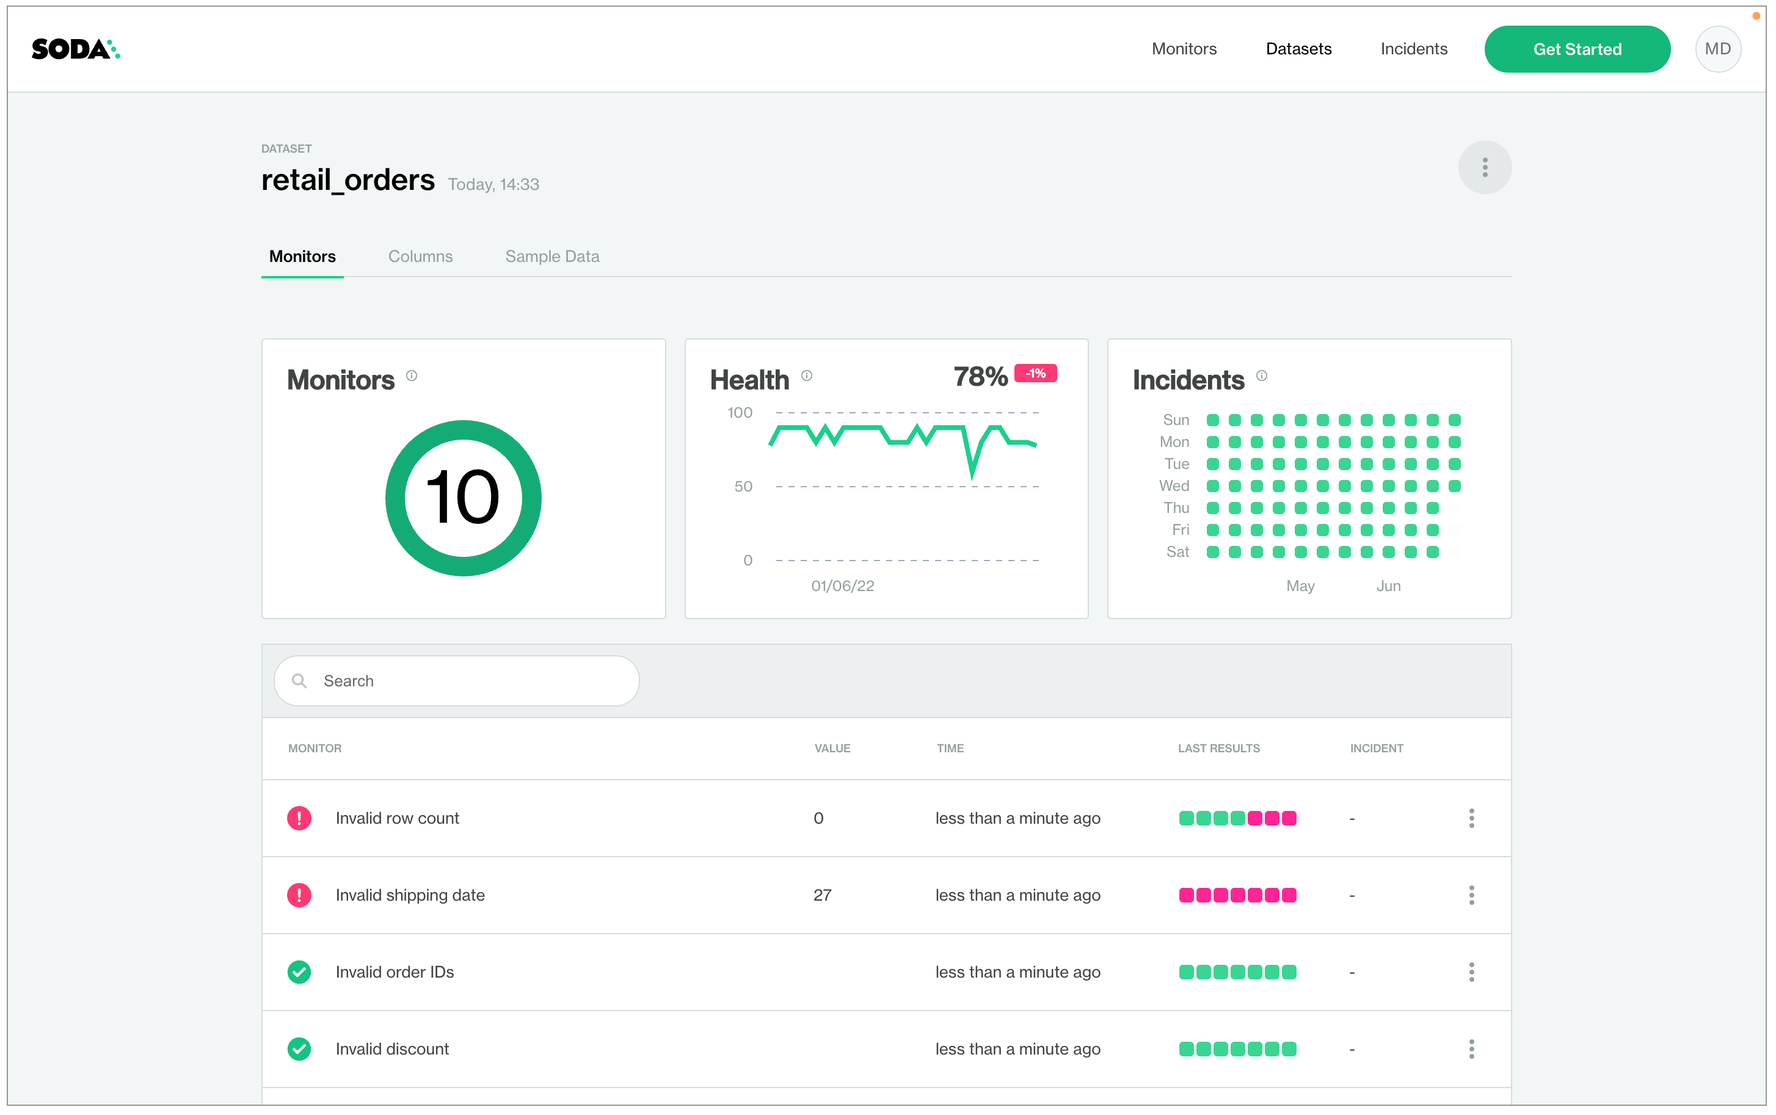
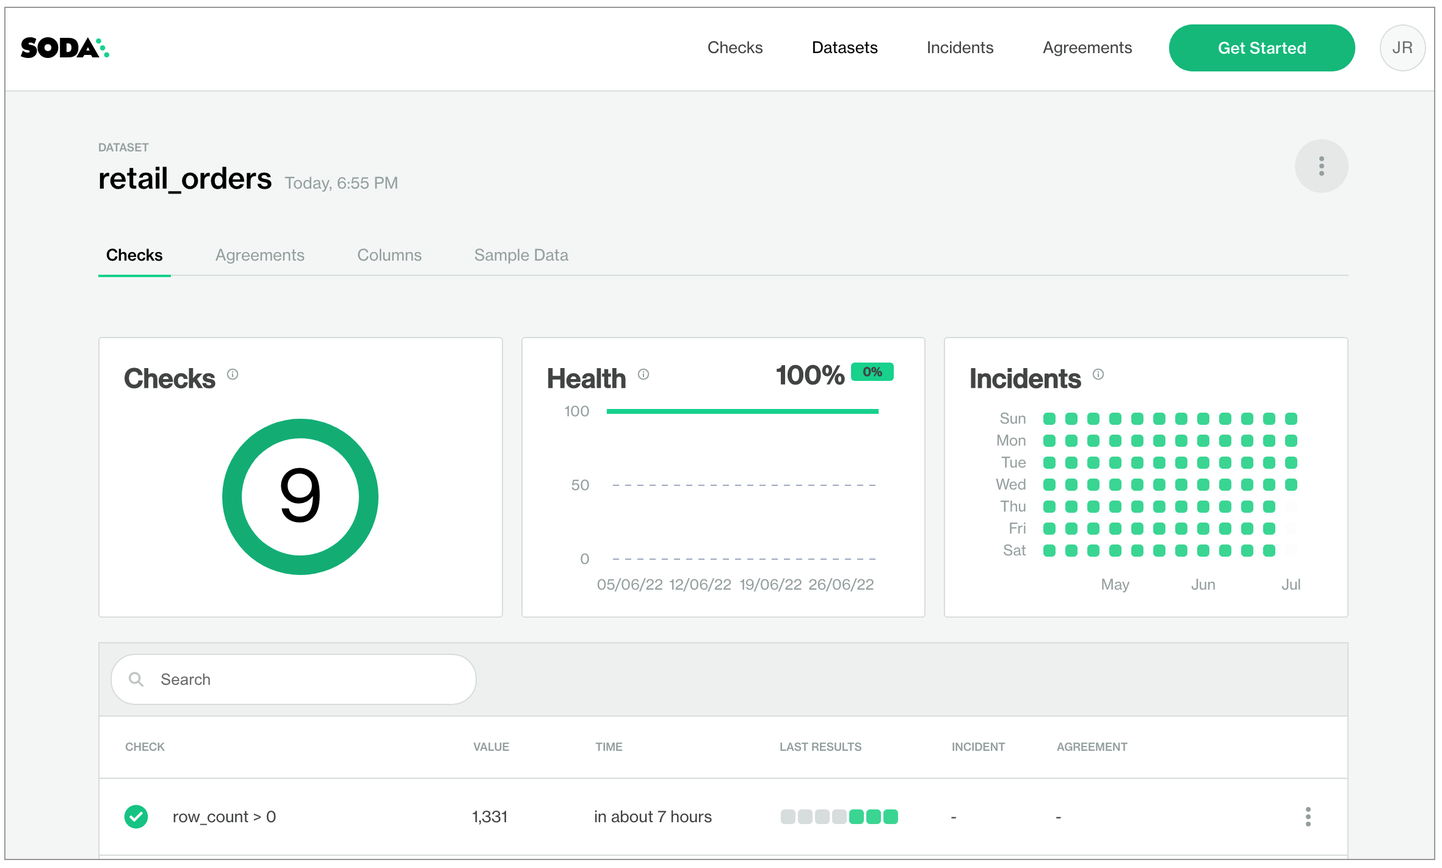
Last changes to shift focus to checks and preview features.

diff --git a/index.html b/index.html
@@ -32,9 +32,9 @@ redirect_from:
                 <div>
                     <img src="/assets/images/icons/icon-new@2x.png" width="54" height="40">
                     <h2>What's new?</h2>
-                    <a href="/soda-core/overview-main.html">Soda Core + SodaCL are GA!</a>
-                    <a href="/soda-core/configuration.html#connect-to-apache-spark-dataframes">Soda Core for Spark</a>
-                    <a href="/soda-core/how-core-works.html">How Soda Core works</a>
+                    <a href="/soda-agent/deploy.html">Deploy a Soda Agent (Preview)</a>
+                    <a href="/soda-cloud/agreements.html">Create an agreement (Preview)</a>
+                    <a href="/soda-cl/profile.html">Profile datasets (Preview</a>
                 </div>
                 <div>
                     <img src="/assets/images/icons/icon-dev-tools@2x.png" width="54" height="40">
@@ -48,13 +48,14 @@ redirect_from:
                     <h2>SodaCL</h2>
                     <a href="/soda/quick-start-sodacl.html">Quick start for SodaCL</a>
                     <a href="/soda-cl/metrics-and-checks.html">SodaCL metrics and checks</a>
+                    <a href="/soda-cl/automated-monitoring.html">Automated monitoring (Preview)</a>
                 </div>
                 <div>
                     <img src="/assets/images/icons/icon-cloud@2x.png" width="54" height="40">
                     <h2>Soda Cloud</h2>
                     <a href="https://cloud.soda.io/signup" target="_blank">Sign up for Soda Cloud</a>
                     <a href="/soda-cloud/incidents.html">Soda Incidents</a>
-                    <a href="/soda-cloud/organize-datasets.html">Organize datasets</a>
+                    <a href="/soda-cloud/add-datasource.html">Create a datasource (Preview)</a>
                 </div>
                  <div>
                     <img src="/assets/images/icons/icon-collaboration@2x.png" width="54" height="40">

diff --git a/soda-cloud/roles-and-rights.md b/soda-cloud/roles-and-rights.md
@@ -12,8 +12,8 @@ To manage the actions of members that belong to a single organization, Soda Clou
 [Roles and rights in your account](#roles-and-rights-in-your-account)<br />
 [Change organization roles and settings](#change-organization-roles-and-settings)<br />
 [Access an audit trail](#access-an-audit-trail)<br />
-[Access to datasets and monitors](#access-to-datasets-and-monitors)<br />
-[Default roles for datasets and monitors](#default-roles-for-datasets-and-monitors)<br />
+[Access to datasets and checks](#access-to-datasets-and-checks)<br />
+[Default roles for datasets and checks](#default-roles-for-datasets-and-checks)<br />
 [Change the default access to datasets](#change-the-default-access-to-datasets)<br />
 [Change access to a dataset](#change-access-to-a-dataset)<br />
 [Review member licenses](#review-member-licenses)<br />
@@ -71,26 +71,25 @@ To meet your organization's regulatory and policy mandates, you can download a C
 Alternatively, you can use the [Audit Trail endpoint]({% link api-docs/reporting-api.md %}#/operations/audit_trail_v0_audit_trail_get) in Soda Cloud's Reporting API to access audit trail data. 
 
 
-## Access to datasets and monitors
+## Access to datasets and checks
 
-The roles that define who can make changes to [datasets]({% link soda/glossary.md %}#dataset) and [monitors]({% link soda/glossary.md %}#monitor) are **Manager**, **Editor**, and **Viewer**. Where the roles and rights described above apply to your organization's Soda Account, the roles and rights described in the table below apply to individual resources in your account, namely the datasets and monitors. 
+The roles that define who can make changes to [datasets]({% link soda/glossary.md %}#dataset) and [checks]({% link soda/glossary.md %}#check) are **Manager**, **Editor**, and **Viewer**. Where the roles and rights described above apply to your organization's Soda Account, the roles and rights described in the table below apply to individual resources in your account, namely the datasets and checks. 
 
-The following table outlines the rights of each role associated with individual datasets. Note that because of its universal access to all things in your Soda Cloud account, an **Admin** member as described above has all the rights of a **Manager** relative to datasets and monitors.
+The following table outlines the rights of each role associated with individual datasets. Note that because of its universal access to all things in your Soda Cloud account, an **Admin** member as described above has all the rights of a **Manager** relative to datasets and checks.
 
 | Rights                                                                     | Manager <br /> and Admin | Editor | Viewer |
 |----------------------------------------------------------------------------|:------------------------:|:------:|:------:|
-| View Monitor Results of monitors associated with a dataset                 |             ✓            |    ✓   |    ✓   |
-| Create and track Incidents associated with one or more monitor results     |             ✓            |    ✓   |    ✓   |
-| Create monitors associated with the dataset                                |             ✓            |    ✓   |        |
-| Edit monitors associated with the dataset                                  |             ✓            |    ✓   |        |
+| View Check Results of checks associated with a dataset                     |             ✓            |    ✓   |    ✓   |
+| Create and track Incidents associated with one or more check results       |             ✓            |    ✓   |    ✓   |
+| Create checks associated with an agreement                                 |             ✓            |    ✓   |        |
+| Edit checks associated with a dataset                                      |             ✓            |    ✓   |        |
 | Add and edit dataset Attributes, such as Description or Tags               |             ✓            |    ✓   |        |
-| Edit dataset settings such as Enable Column Metrics or Sample Data         |             ✓            |    ✓   |        |
 | Add Tags to a dataset                                                      |             ✓            |    ✓   |        |
-| Control member access to a dataset and its monitors (add or remove access) |             ✓            |        |        |
-| Change the roles of members with access to a dataset and its monitors      |             ✓            |        |        |
+| Control member access to a dataset and its checks (add or remove access)   |             ✓            |        |        |
+| Change the roles of members with access to a dataset and its check         |             ✓            |        |        |
 
 
-## Default roles for datasets and monitors
+## Default roles for datasets and checks
 
 When a new member accepts an invitation to join an existing organization, Soda Cloud applies the following defaults to the new member:
 - the role of **User** in the organization
@@ -122,7 +121,7 @@ By default, when any member adds a new dataset to the Soda Cloud account via Sod
 
 As an Admin you have the option of adjusting three default access settings:
 
-* By default, when a dataset's Admin or Manager grants another member or the Everyone group access to a dataset, Soda Cloud automatically assigns the new member or group the [default role of Editor for the dataset](#default-roles-for-datasets-and-monitors).  You can adjust this setting to a different default role.
+* By default, when a dataset's Admin or Manager grants another member or the Everyone group access to a dataset, Soda Cloud automatically assigns the new member or group the [default role of Editor for the dataset](#default-roles-for-datasets-and-checks).  You can adjust this setting to a different default role.
 * By default, when any member adds a new dataset to the Soda Cloud account via Soda Core, Soda Cloud *does not* assign the **Everyone** group to the dataset. You can adjust this setting to automatically assign the **Everyone** group to each newly added dataset.
 * By default, Soda Cloud *does not* allow dataset owners to manage the responsibilites on the datasets they own. You can adjust this setting to automatically assign the role of Manager to all dataset owners, rather than Editor.
 
@@ -146,8 +145,8 @@ Note that by default, Soda Cloud automatically adds all new members to the organ
     </ol>
     <br />
     In other words, you cannot globally change the role for the Everyone group across resources. You can only change the role of Everyone by:<br />
-    a) changing it individually on an individual dataset or monitor.<br />
-    b) changing its default role in the Organization Settings which <i>only</i> applies when the Everyone group is added to a dataset or monitor on upload or creation.
+    a) changing it individually on an individual dataset or check.<br />
+    b) changing its default role in the Organization Settings which <i>only</i> applies when the Everyone group is added to a dataset or check on upload or creation.
 </details>
  
 
@@ -164,13 +163,13 @@ As an Admin or a Manager of a dataset, you can access the **Responsibilities** t
 
 ## Review member licenses
 
-Each Soda Cloud Plan (Soda Teams or Soda Enterprise) includes a specific number of **Author** licenses for members of the Soda Cloud account. A member's license status controls whether they can make changes to any datasets and monitors in the Soda Cloud account.
-* **Authors** essentially have read-write access in Soda Cloud and maintain the role of Admin, Manager, or Editor relative to monitors and datasets. See [Roles and rights](#roles-and-rights) above.
-* **Viewers** essentially have read-only acecss in Soda Cloud and maintain the role of Viewer relative to monitors and datasets. See [Roles and rights](#roles-and-rights) above.
+Each Soda Cloud Plan (Soda Teams or Soda Enterprise) includes a specific number of **Author** licenses for members of the Soda Cloud account. A member's license status controls whether they can make changes to any datasets and checks in the Soda Cloud account.
+* **Authors** essentially have read-write access in Soda Cloud and maintain the role of Admin, Manager, or Editor relative to checks and datasets. See [Roles and rights](#roles-and-rights) above.
+* **Viewers** essentially have read-only acecss in Soda Cloud and maintain the role of Viewer relative to checks and datasets. See [Roles and rights](#roles-and-rights) above.
 
 1. To review the licenses that your members have, as an Admin, login to your Soda Cloud account and navigate to **your avatar** > **Organization Settings**. Only Soda Cloud Admin members can view Organization Settings. 
 2. Access the **Members** tab to view a list of people who have access to your Soda Cloud account, the role they have in the organization (Admin or User), and their License status (Author or Viewer). 
-3. Click a member's **Author** or **Viewer** label in the License column to access a **Responsibilities** window that lists the member's access to resources (datasets and monitors), the role they hold for each resource, and their license status relative to the resource.
+3. Click a member's **Author** or **Viewer** label in the License column to access a **Responsibilities** window that lists the member's access to resources (datasets and checks), the role they hold for each resource, and their license status relative to the resource.
 
 ## Data source, dataset, and check owners
 
@@ -190,11 +189,11 @@ There are three ownership roles in Soda Cloud that identify the member that owns
 <br />
 <br />
 
-#### Change the Monitor Owner
+#### Change the Check Owner
 
-1. If you are the Admin of the organization, or have a Manager or Editor role for the monitor's dataset, login to your Soda Cloud account and navigate to the **Monitors** dashboard.
-2. Click the stacked dots to the right of the monitor for which you wish to adjust the ownership, then select **Edit Monitor**.
-3. In the **Attributes** tab, use the dropdown to select the name of another member to take ownership of the monitor, then **Save**.
+1. If you are the Admin of the organization, or have a Manager or Editor role for the check's dataset, login to your Soda Cloud account and navigate to the **Checks** dashboard.
+2. Click the stacked dots to the right of the check for which you wish to adjust the ownership, then select **Edit Check**.
+3. In the **Attributes** tab, use the dropdown to select the name of another member to take ownership of the check, then **Save**.
 
 
 ## Go further

diff --git a/soda/product-matrix.md b/soda/product-matrix.md
@@ -17,7 +17,11 @@ Use these matrices to review the features and functionality that Soda products h
 [Gain insight](#gain-insight)<br />
 [Go further](#go-further)
 
-![legend-matrix](/assets/images/legend-matrix.png){:height="120px" width="120px"}
+
+![almost-done](/assets/images/almost-done.png){:height="20px" width="20px"} Coming soon <br />
+![done](/assets/images/done.png){:height="20px" width="20px"}  Full implemented <br />
+![preview](/assets/images/preview.png){:height="60px" width="60px"} Released for limited-access preview 
+
 <br />
 <br />
 
@@ -27,7 +31,7 @@ Use these matrices to review the features and functionality that Soda products h
 |--------|:---------:|:---------:|
 | Install in your environment via `pip install`| ![done](/assets/images/done.png){:height="20px" width="20px"}  |  |
 | Connect to a data source via configurations in a YAML file| ![done](/assets/images/done.png){:height="20px" width="20px"}  |  |
-| Connect to a data source via a web app user interface| | ![almost-done](/assets/images/almost-done.png){:height="20px" width="20px"} |
+| Connect to a data source via a web app user interface| | ![preview](/assets/images/preview.png){:height="60px" width="60px"} |
 | Manage user access to your organization's Soda Cloud account. | | ![done](/assets/images/done.png){:height="20px" width="20px"} | 
 | Set up Single sign-on for Soda Cloud so that all users in your organization must use your IdP to access it | | ![done](/assets/images/done.png){:height="20px" width="20px"} | 
 
@@ -36,16 +40,16 @@ Use these matrices to review the features and functionality that Soda products h
 | Feature or functionality |  ![soda-core-logo](/assets/images/soda-core-logo.png){:height="110px" width="110px"} <br />**+** ![sodacl-logo](/assets/images/sodacl-logo.png){:height="75px" width="75px"} |![soda-cloud-logo](/assets/images/soda-cloud-logo.png){:height="150px" width="150px"} | 
 |--------|:---------:|:---------:|
 | Discover datasets of a newly-connected data source |  | ![done](/assets/images/done.png){:height="20px" width="20px"} |
-| Define new checks in a checks YAML file  | ![done](/assets/images/done.png){:height="20px" width="20px"} |  |
-| Define new checks in a web app user interface  |  | ![almost-done](/assets/images/almost-done.png){:height="20px" width="20px"} |
-| Use historic measurements of data when defining checks  | ![done](/assets/images/done.png){:height="20px" width="20px"} | ![almost-done](/assets/images/almost-done.png){:height="20px" width="20px"} |
-| Use built-in metrics to write checks | ![done](/assets/images/done.png){:height="20px" width="20px"} | ![almost-done](/assets/images/almost-done.png){:height="20px" width="20px"} |
-| Use your own custom metrics to write checks | ![done](/assets/images/done.png){:height="20px" width="20px"} | ![almost-done](/assets/images/almost-done.png){:height="20px" width="20px"} |
-| Include SQL queries in checks for data quality  | ![done](/assets/images/done.png){:height="20px" width="20px"} | ![almost-done](/assets/images/almost-done.png){:height="20px" width="20px"} |
-| Use SodaCL to write human-readable checks for data quality | ![done](/assets/images/done.png){:height="20px" width="20px"}  | ![almost-done](/assets/images/almost-done.png){:height="20px" width="20px"} |
-| Define an anomaly detection check  | ![done](/assets/images/done.png){:height="20px" width="20px"} | ![almost-done](/assets/images/almost-done.png){:height="20px" width="20px"} |
-| Define a schema check | ![done](/assets/images/done.png){:height="20px" width="20px"} | ![almost-done](/assets/images/almost-done.png){:height="20px" width="20px"} |
-| Apply freshness checks, reference checks, and row-count comparisons between datasets  | ![done](/assets/images/done.png){:height="20px" width="20px"} | ![almost-done](/assets/images/almost-done.png){:height="20px" width="20px"} |
+| Write new checks in a checks YAML file  | ![done](/assets/images/done.png){:height="20px" width="20px"} |  |
+| Write new checks in a web app user interface  |  | ![preview](/assets/images/preview.png){:height="60px" width="60px"} |
+| Use historic measurements of data when defining checks  | ![done](/assets/images/done.png){:height="20px" width="20px"} | ![preview](/assets/images/preview.png){:height="60px" width="60px"} |
+| Use built-in metrics to write checks | ![done](/assets/images/done.png){:height="20px" width="20px"} | ![preview](/assets/images/preview.png){:height="60px" width="60px"} |
+| Use your own custom metrics to write checks | ![done](/assets/images/done.png){:height="20px" width="20px"} | ![preview](/assets/images/preview.png){:height="60px" width="60px"} |
+| Include SQL queries in checks for data quality  | ![done](/assets/images/done.png){:height="20px" width="20px"} | ![preview](/assets/images/preview.png){:height="60px" width="60px"} |
+| Use SodaCL to write human-readable checks for data quality | ![done](/assets/images/done.png){:height="20px" width="20px"}  | ![preview](/assets/images/preview.png){:height="60px" width="60px"} |
+| Define an anomaly detection check  | ![done](/assets/images/done.png){:height="20px" width="20px"} | ![preview](/assets/images/preview.png){:height="60px" width="60px"} |
+| Define a schema check | ![done](/assets/images/done.png){:height="20px" width="20px"} | ![preview](/assets/images/preview.png){:height="60px" width="60px"} |
+| Apply freshness checks, reference checks, and row-count comparisons between datasets  | ![done](/assets/images/done.png){:height="20px" width="20px"} | ![preview](/assets/images/preview.png){:height="60px" width="60px"} |
 
 ## Collaborate
 
@@ -53,16 +57,16 @@ Use these matrices to review the features and functionality that Soda products h
 |--------|:---------:|:---------:|
 | Invite colleagues to join your Soda Cloud account to collaborate on writing checks and monitoring data quality  |  | ![done](/assets/images/done.png){:height="20px" width="20px"} |
 | Create and manage data quality incidents, including an integration with Slack to collaborate on investigations  |  | ![done](/assets/images/done.png){:height="20px" width="20px"} |
-| Prepare service level agreements for data quality with stakeholders in your organization |  | ![almost-done](/assets/images/almost-done.png){:height="20px" width="20px"} |
+| Prepare service level agreements for data quality with stakeholders in your organization |  | ![preview](/assets/images/preview.png){:height="60px" width="60px"} |
 
 ## Run scans
 
 | Feature or functionality |   ![soda-core-logo](/assets/images/soda-core-logo.png){:height="110px" width="110px"} <br />**+** ![sodacl-logo](/assets/images/sodacl-logo.png){:height="75px" width="75px"} |![soda-cloud-logo](/assets/images/soda-cloud-logo.png){:height="150px" width="150px"} | 
 |--------|:---------:|:---------:|
 | Run an *ad hoc* scan  | ![done](/assets/images/done.png){:height="20px" width="20px"} |  |
-| Define a scan schedule  |  | ![almost-done](/assets/images/almost-done.png){:height="20px" width="20px"} |
+| Define a scan schedule  |  | ![preview](/assets/images/preview.png){:height="60px" width="60px"} |
 |Configure programmatic scans | ![done](/assets/images/done.png){:height="20px" width="20px"} |  |
-|Define filters to test specific portions of data for quality   | ![done](/assets/images/done.png){:height="20px" width="20px"} |![almost-done](/assets/images/almost-done.png){:height="20px" width="20px"} |
+|Define filters to test specific portions of data for quality   | ![done](/assets/images/done.png){:height="20px" width="20px"} |![preview](/assets/images/preview.png){:height="60px" width="60px"} |
 
 
 ## Integrate
@@ -72,13 +76,13 @@ Use these matrices to review the features and functionality that Soda products h
 | Integrate with AirFlow to automate scans and actions proceeding from scan results  | ![done](/assets/images/done.png){:height="20px" width="20px"} |  |
 | Integrate with Slack to send notifications of data quality issues and investigate incidents | ![almost-done](/assets/images/almost-done.png){:height="20px" width="20px"} | ![done](/assets/images/done.png){:height="20px" width="20px"} |
 | Integrate with Alation or Metaphor to view data quality details from within your data catalog. |  | ![done](/assets/images/done.png){:height="20px" width="20px"} |
-| Integrate with dbt to view dbt tests from within Soda Cloud. |  | ![done](/assets/images/done.png){:height="20px" width="20px"} |
+| Integrate with dbt to view dbt tests from within Soda Cloud. | ![almost-done](/assets/images/almost-done.png){:height="20px" width="20px"} | ![almost-done](/assets/images/almost-done.png){:height="20px" width="20px"} |
 
 ## Gain insight
 
 | Feature or functionality |  ![soda-core-logo](/assets/images/soda-core-logo.png){:height="110px" width="110px"} <br />**+** ![sodacl-logo](/assets/images/sodacl-logo.png){:height="75px" width="75px"} |![soda-cloud-logo](/assets/images/soda-cloud-logo.png){:height="150px" width="150px"} | 
 |--------|:---------:|:---------:|
-| Take advantage of automatic data profiling for datasets and columns |  | ![almost-done](/assets/images/almost-done.png){:height="20px" width="20px"} |
+| Take advantage of automatic data profiling for datasets and columns |  | ![preview](/assets/images/preview.png){:height="60px" width="60px"} |
 | View charts to gain visibility into stored measurements for a metric over time |  | ![done](/assets/images/done.png){:height="20px" width="20px"} |
 | Set up notifications to alert your team of data quality failures and warnings | ![almost-done](/assets/images/almost-done.png){:height="20px" width="20px"}  | ![done](/assets/images/done.png){:height="20px" width="20px"} |
 | View samples of rows that failed a check  |  | ![done](/assets/images/done.png){:height="20px" width="20px"} |

diff --git a/soda/product-overview.md b/soda/product-overview.md
@@ -75,6 +75,14 @@ Beyond increasing the observability of your data, Soda Cloud enables you to view
 
 Access [Soda Cloud documentation]({% link soda-cloud/overview.md %}).
 
+![preview](/assets/images/preview.png){:height="60px" width="60px"} Some new features and functionality for are accessible via limited-access preview. <a href="mailto:support@soda.io">Let us know</a> if you want access!
+* [Create a data source in Soda Cloud]({% link soda-cloud/add-datasource.md %})
+* [Create an agreement]({% link soda-cloud/agreements.md %})
+* [Deploy a Soda Agent]({% link soda-agent/deploy.md %})
+* [Add automated monitoring checks]({% link soda-cl/automated-monitoring.md %})
+* [Send profile info to Soda Cloud]({% link soda-cl/profile.md %})
+
+
 ![overview-soda-cloud](/assets/images/overview-soda-cloud.png){:height="700px" width="700px"}
 
 
@@ -109,7 +117,7 @@ In Soda Cloud, you can do much more than just review the scan results.
 * [Integrate with Slack]({% link soda/integrate-slack.md %}) to configure and send alerts to your team when there is a data quality issue.
 * Create and track data quality [incidents]({% link soda-cloud/incidents.md %}) associated with failed check results so your team can collaborate on issue investigation.
 * Get at-a-glance information about column metrics and the overall health of a dataset in the Datasets dashboard.
-* [Integrate your dbt tests]({% link soda/integrate-dbt.md %}) into Soda Cloud, or integrate with your [Metaphor]({% link soda/integrate-metaphor.md %}) or [Alation]({% link soda/integrate-alation.md %}) data catalog.
+* Integrate with your [Metaphor]({% link soda/integrate-metaphor.md %}) or [Alation]({% link soda/integrate-alation.md %}) data catalog.
 
 ## Legacy OSS tools
 
